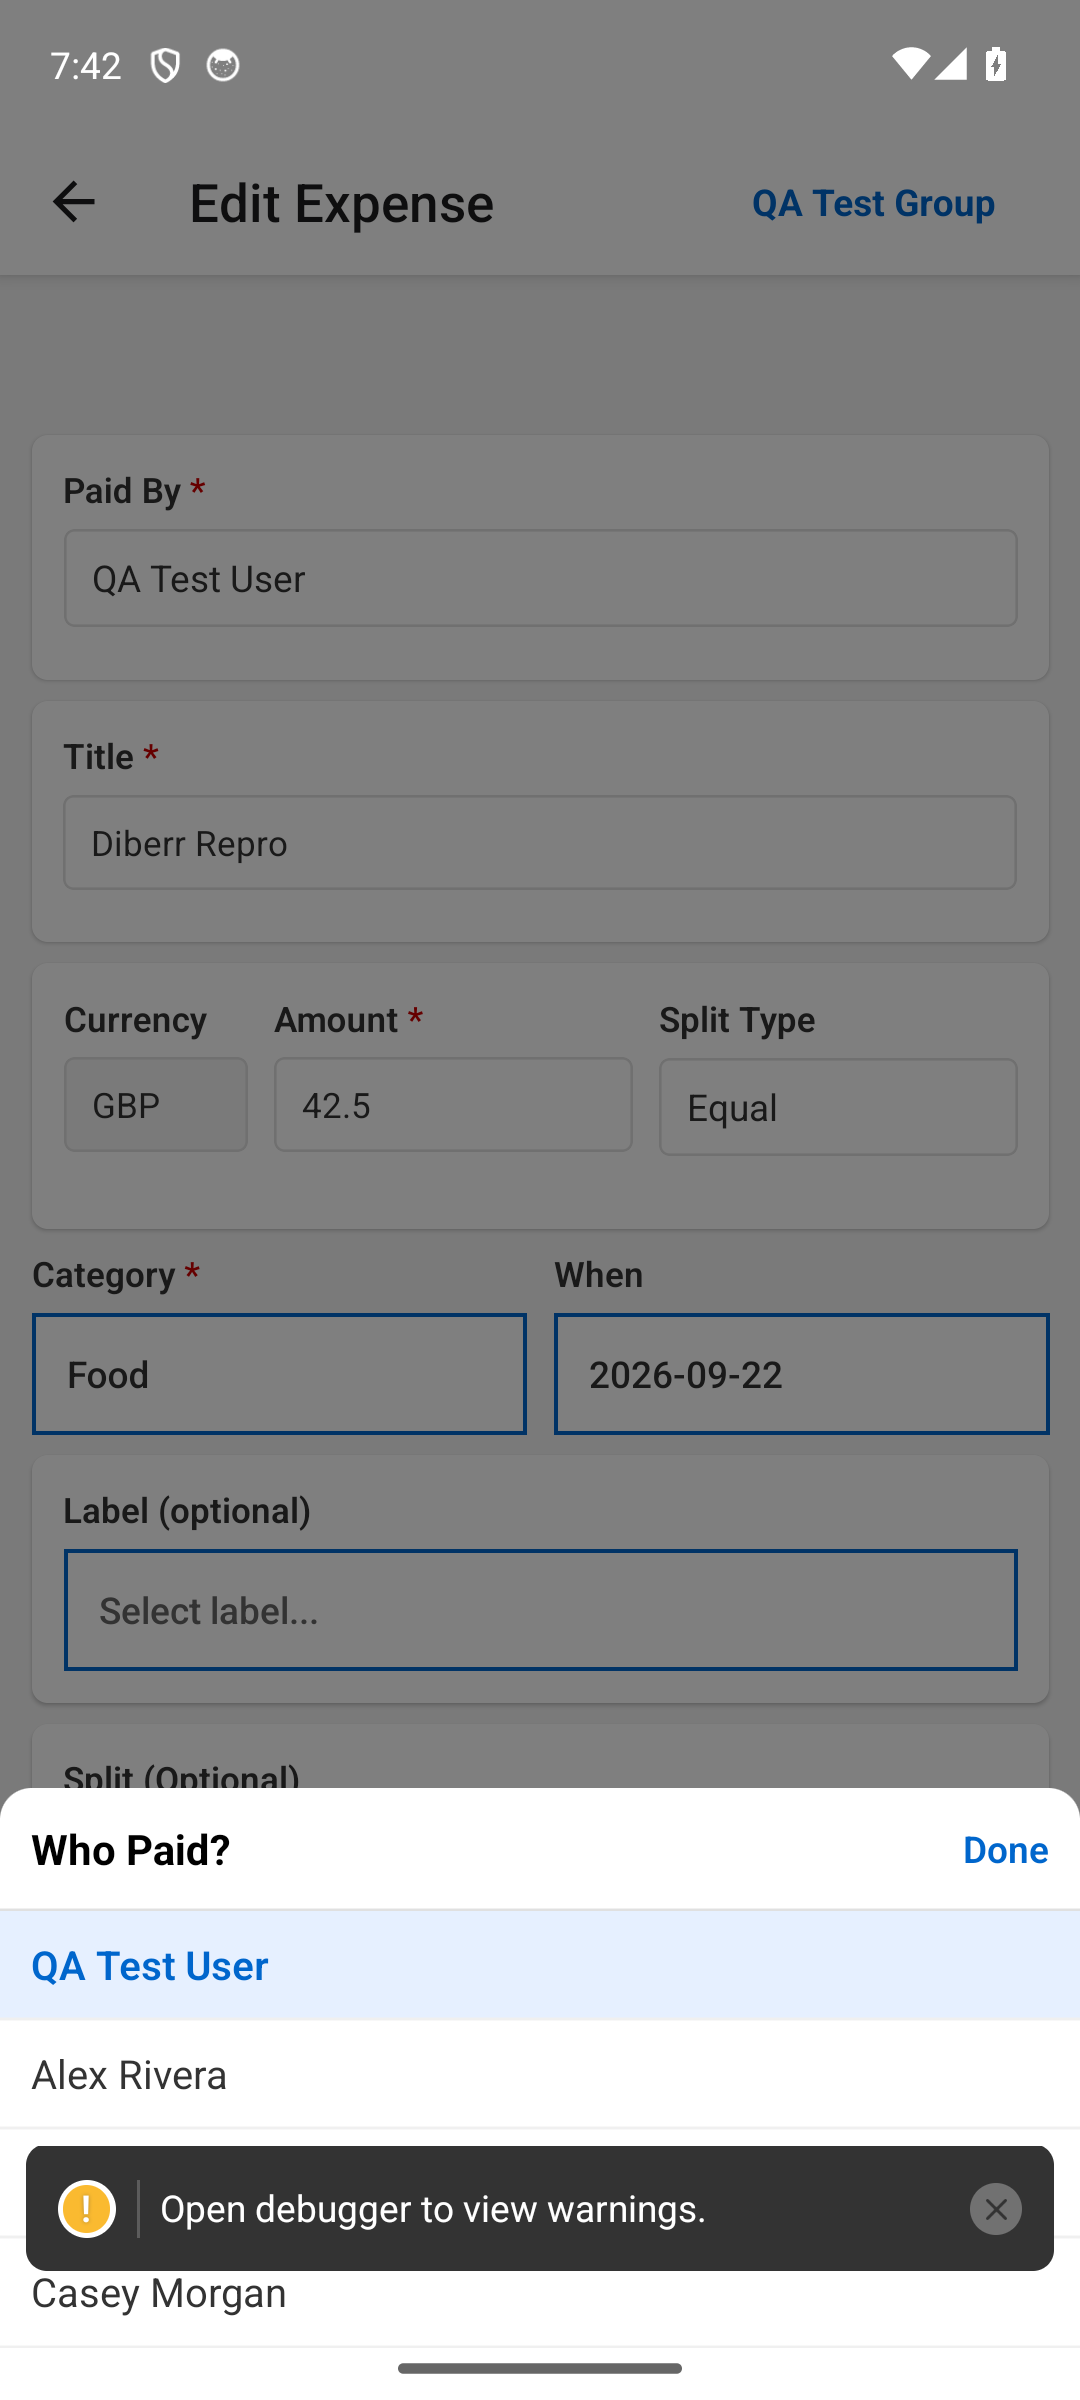
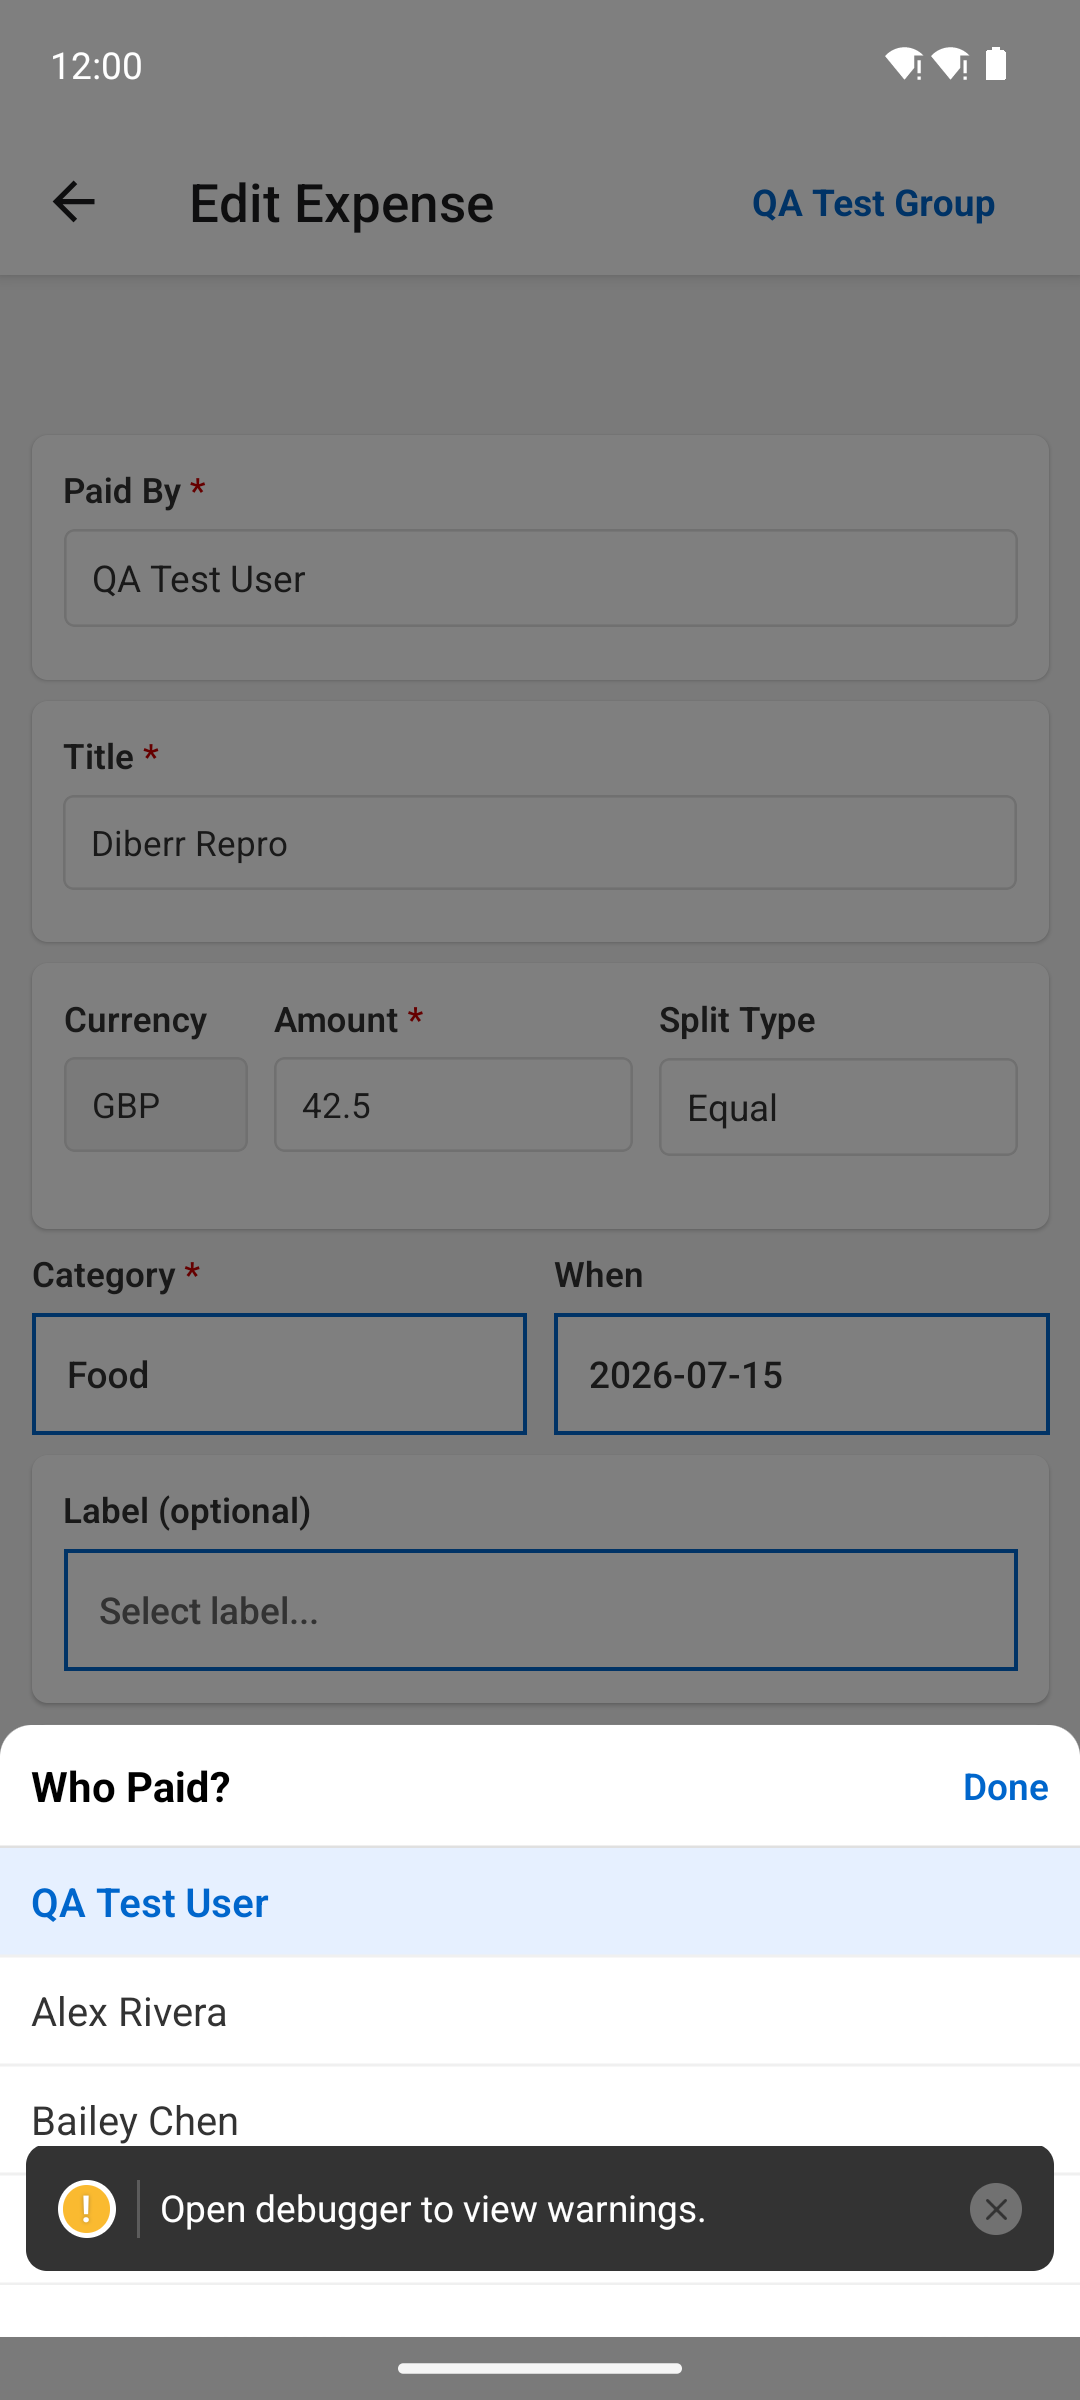
fix(e2e-mobile): regenerate visual baselines from CI emulator, make assertScreenshot blocking
6 of 9 maestro-flows/visual/*.png baselines were recorded on a local Mac
emulator (different renderer/status-bar), scoring 79-93% vs the unchanged
95% threshold on the Linux CI emulator. Regenerated them from run
36263266511's maestro-debug-output artifact (the exact frame Maestro
captured at each flow's assertScreenshot step): edit-group-currency-picker,
edit-expense-paid-by-modal(-multi-member), group-list, expense-list,
payer-picker-modal-safe-area. login-screen already matched (unchanged).

add-expense-screen and create-group-currency-picker-screen did not reach
their assertScreenshot step in that run (cold-launch email-input flake) so
no CI screenshot was captured for them yet - existing baselines left as-is
pending a follow-up run.

scripts/run-maestro-ci.sh: replaced the functional(strip assertScreenshot,
blocking)/visual(non-blocking) split with a single per-flow pass that
includes assertScreenshot and is fully blocking, still retrying each flow
individually (max 2 attempts) to absorb cold-launch latency.

Regression-Exempt: updated issue-45 test assertions to match the new
blocking single-pass runner (same assertion count, no test/coverage removed).

diff --git a/backend/src/__tests__/regression/issue-45-e2e-mobile-functional-visual-split.test.ts b/backend/src/__tests__/regression/issue-45-e2e-mobile-functional-visual-split.test.ts
@@ -11,18 +11,18 @@ describe('e2e-mobile functional/visual split (PR #85)', () => {
     expect(ciYaml).not.toContain('for i in 1 2 3; do maestro test');
   });
 
-  it('should strip assertScreenshot for the blocking functional pass and retry per flow', () => {
-    expect(runner).toContain("grep -v '^- assertScreenshot'");
+  it('should run each flow (including its assertScreenshot step) with per-flow retry', () => {
     expect(runner).toMatch(/for attempt in/);
+    expect(runner).not.toContain("grep -v '^- assertScreenshot'");
   });
 
-  it('should keep the visual pass non-blocking and the exit code functional-only', () => {
-    expect(runner).toMatch(/maestro test "\$SRC" 2>&1 \| tee .* \|\| true/);
+  it('should make the visual/assertScreenshot pass blocking on the job exit code', () => {
     expect(runner).toMatch(/\[ "\$failed" -eq 0 \]\s*$/);
+    expect(runner).not.toMatch(/\|\|\s*true\s*$/m);
   });
 
-  it('should document that visual baselines need CI-emulator regeneration', () => {
-    expect(ciYaml).toContain('regenerated from CI-emulator screenshots');
+  it('should document that visual baselines were regenerated from CI-emulator screenshots', () => {
+    expect(ciYaml).toContain('regenerated from real CI-emulator screenshots');
   });
 
   it('should bound the e2e-mobile timeouts to measured durations', () => {
